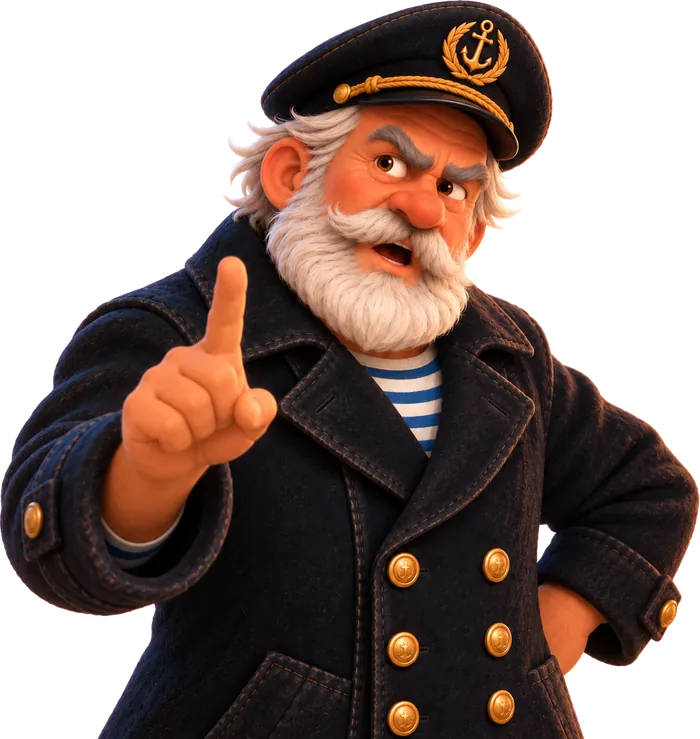
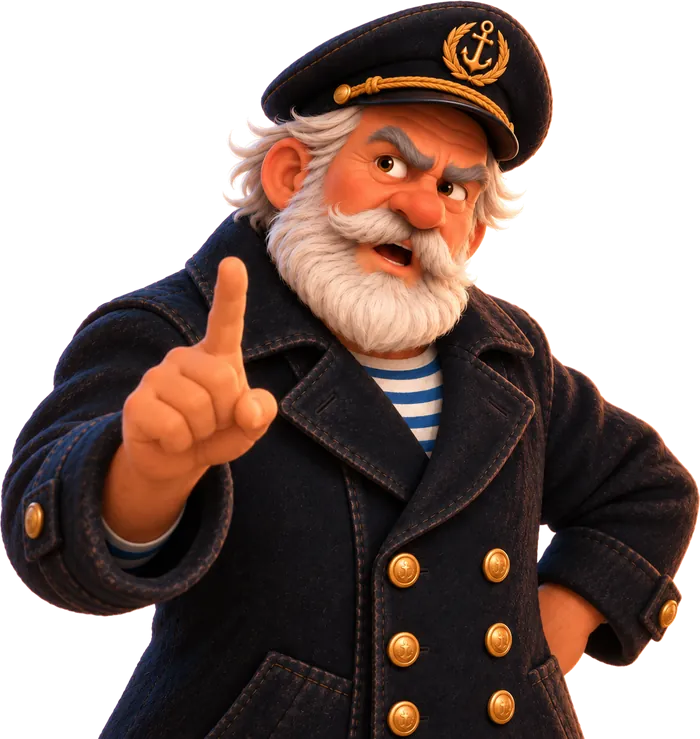
Герои вырезаны заново: нейросеть BiRefNet + очистка белой каймы
- бескозырки Клуши целые, белых пятен и каймы по краям нет
- яркие мелочи (лучики лампочки, крошки) сохраняются
- CLAUDE.md: записан тестовый адрес Timeweb

Claude-Session: https://claude.ai/code/session_012Uw42GoFDSjcMRFr84nuts

diff --git a/scripts/process-images.py b/scripts/process-images.py
@@ -26,7 +26,7 @@ import sys
 from pathlib import Path
 
 import numpy as np
-from PIL import Image, ImageFilter
+from PIL import Image
 
 ROOT = Path(__file__).resolve().parent.parent
 SRC_DIR = ROOT / "assets-src/kronstadt-walk/images"
@@ -85,23 +85,32 @@ _session = None
 
 
 def cut_out(img: Image.Image) -> Image.Image:
-    """Вырезает героя: нейросеть находит фигуру, а цветные детали (ленты, гюйс)
-    дополнительно сохраняются по насыщенности цвета, чтобы их не съело."""
+    """Вырезает героя с белого фона нейросетью BiRefNet (точнее всего держит
+    белые бескозырки, волосы и перья) и убирает белую кайму по краю."""
     global _session
     from rembg import new_session, remove
 
     if _session is None:
-        _session = new_session("isnet-general-use")
+        _session = new_session("birefnet-general-lite")
     rgb = img.convert("RGB")
-    ai_alpha = np.asarray(remove(rgb, session=_session, post_process_mask=True))[..., 3]
-    px = np.asarray(rgb).astype(int)
-    colored = (px.max(axis=2) - px.min(axis=2)) > 45
-    alpha = np.maximum(ai_alpha, np.where(colored, 255, 0)).astype(np.uint8)
-    # Мягкий край в 1 px, чтобы не было «лесенки».
-    alpha_img = Image.fromarray(alpha).filter(ImageFilter.GaussianBlur(0.6))
-    out = rgb.convert("RGBA")
-    out.putalpha(alpha_img)
-    box = Image.fromarray((alpha > 8).astype(np.uint8) * 255).getbbox()
+    alpha = np.asarray(remove(rgb, session=_session))[..., 3].astype(np.float32) / 255
+    # Яркие цветные мелочи (лучики лампочки, крошки) нейросеть иногда теряет.
+    # Фон белый, поэтому всё заметно цветное точно относится к картинке.
+    px = np.asarray(rgb).astype(np.int16)
+    colored = (px.max(axis=2) - px.min(axis=2)) > 60
+    alpha = np.maximum(alpha, colored.astype(np.float32))
+    # Убираем остатки белого фона: полупрозрачные пиксели края «смешаны» с белым,
+    # вычитаем белую часть и оставляем только цвет героя.
+    color = np.asarray(rgb).astype(np.float32)
+    a = np.clip(alpha, 1e-3, 1)[..., None]
+    clean = np.clip((color - (1 - a) * 255) / a, 0, 255)
+    edge = (alpha > 0.02) & (alpha < 0.98)
+    color[edge] = clean[edge]
+    alpha[alpha < 0.03] = 0
+    out = Image.fromarray(
+        np.dstack([color, alpha * 255]).round().astype(np.uint8), "RGBA"
+    )
+    box = Image.fromarray((alpha > 0.03).astype(np.uint8) * 255).getbbox()
     return out.crop(box) if box else out
 
 

diff --git a/docs/assets-kronstadt-walk.md b/docs/assets-kronstadt-walk.md
@@ -88,21 +88,21 @@
 
 | Код | ID | Исходный файл | Готовый файл | Размер, px | Вес, КБ |
 | --- | --- | --- | --- | --- | --- |
-| Ф1 | `F1` | `Ф5 важно интересно.png` | `fedot-1.webp` | 700 × 710 | 57 |
-| Ф1г | `F1-gazeta` | `Ф1 рассказчик.png` | `fedot-1-gazeta.webp` | 700 × 879 | 69 |
-| Ф2 | `F2` | `Ф2 ворчит.png` | `fedot-2.webp` | 700 × 739 | 58 |
-| Ф3 | `F3` | `Ф3 ностальгия.png` | `fedot-3.webp` | 700 × 926 | 70 |
-| Ф3-серьёзный | `F3-serious` | `Ф3 серьезный.png` | `fedot-3-serious.webp` | 700 × 822 | 63 |
-| Ф4 | `F4` | `Ф4 страница.png` | `fedot-4.webp` | 700 × 705 | 64 |
-| К1 | `K1` | `К1 веселая.png` | `klusha-1.webp` | 700 × 703 | 55 |
-| К1-мечтательная | `K1-dreamy` | `К1 мечтательная.png` | `klusha-1-dreamy.webp` | 700 × 1056 | 75 |
-| К2 | `K2` | `К2 виноватая.png` | `klusha-2.webp` | 663 × 1234 | 70 |
-| К3 | `K3` | `К3 подсказка.png` | `klusha-3.webp` | 700 × 799 | 67 |
-| К4 | `K4` | `К4 правда или легенда.png` | `klusha-4.webp` | 700 × 877 | 75 |
-| К5-пирожок | `K5-pie` | `К5 пирожок.png` | `klusha-5-pie.webp` | 700 × 958 | 78 |
-| К5-фотоаппарат | `K5-camera` | `К5 фотоаппарат.png` | `klusha-5-camera.webp` | 700 × 952 | 78 |
-| К5-альбом | `K5-album` | `К5 записки.png` | `klusha-5-album.webp` | 700 × 945 | 71 |
-| К6 | `K6` | `К6 указка.png` | `klusha-6.webp` | 700 × 723 | 56 |
+| Ф1 | `F1` | `Ф5 важно интересно.png` | `fedot-1.webp` | 700 × 710 | 66 |
+| Ф1г | `F1-gazeta` | `Ф1 рассказчик.png` | `fedot-1-gazeta.webp` | 700 × 878 | 80 |
+| Ф2 | `F2` | `Ф2 ворчит.png` | `fedot-2.webp` | 700 × 739 | 65 |
+| Ф3 | `F3` | `Ф3 ностальгия.png` | `fedot-3.webp` | 700 × 924 | 79 |
+| Ф3-серьёзный | `F3-serious` | `Ф3 серьезный.png` | `fedot-3-serious.webp` | 700 × 821 | 74 |
+| Ф4 | `F4` | `Ф4 страница.png` | `fedot-4.webp` | 700 × 705 | 74 |
+| К1 | `K1` | `К1 веселая.png` | `klusha-1.webp` | 700 × 699 | 59 |
+| К1-мечтательная | `K1-dreamy` | `К1 мечтательная.png` | `klusha-1-dreamy.webp` | 700 × 1056 | 87 |
+| К2 | `K2` | `К2 виноватая.png` | `klusha-2.webp` | 665 × 1239 | 92 |
+| К3 | `K3` | `К3 подсказка.png` | `klusha-3.webp` | 700 × 795 | 72 |
+| К4 | `K4` | `К4 правда или легенда.png` | `klusha-4.webp` | 700 × 878 | 82 |
+| К5-пирожок | `K5-pie` | `К5 пирожок.png` | `klusha-5-pie.webp` | 700 × 954 | 89 |
+| К5-фотоаппарат | `K5-camera` | `К5 фотоаппарат.png` | `klusha-5-camera.webp` | 700 × 955 | 86 |
+| К5-альбом | `K5-album` | `К5 записки.png` | `klusha-5-album.webp` | 700 × 941 | 83 |
+| К6 | `K6` | `К6 указка.png` | `klusha-6.webp` | 700 × 724 | 62 |
 | Ж1 | `J1` | `Ж1.png` | `journal-1.webp` | 1200 × 1200 | 203 |
 | Ж2 | `J2` | `Ж2 страница.png` | `journal-2.webp` | 941 × 1672 | 100 |
 | Ж3 | `J3` | `Ж3 прогресс.png` | `journal-3.webp` | 1200 × 1200 | 62 |

diff --git a/CLAUDE.md b/CLAUDE.md
@@ -36,7 +36,8 @@
   на страницы сайта (тестовый адрес + путь, например `/dev/assets`), на файлы и папки
   в GitHub (`https://github.com/Sasha-Novaya/kronstadtkvest/...`), на pull request.
   Если что-то можно показать только снимком экрана — прислать снимок.
-- Тестовый адрес сайта на Timeweb: пока не известен (Саша пришлёт — записать сюда).
+- Тестовый адрес сайта на Timeweb: https://sasha-novaya-kronstadtkvest-634d.twc1.net
+  (из облака Claude не открывается — проверяет Саша на телефоне).
 
 ## Как работать
 
